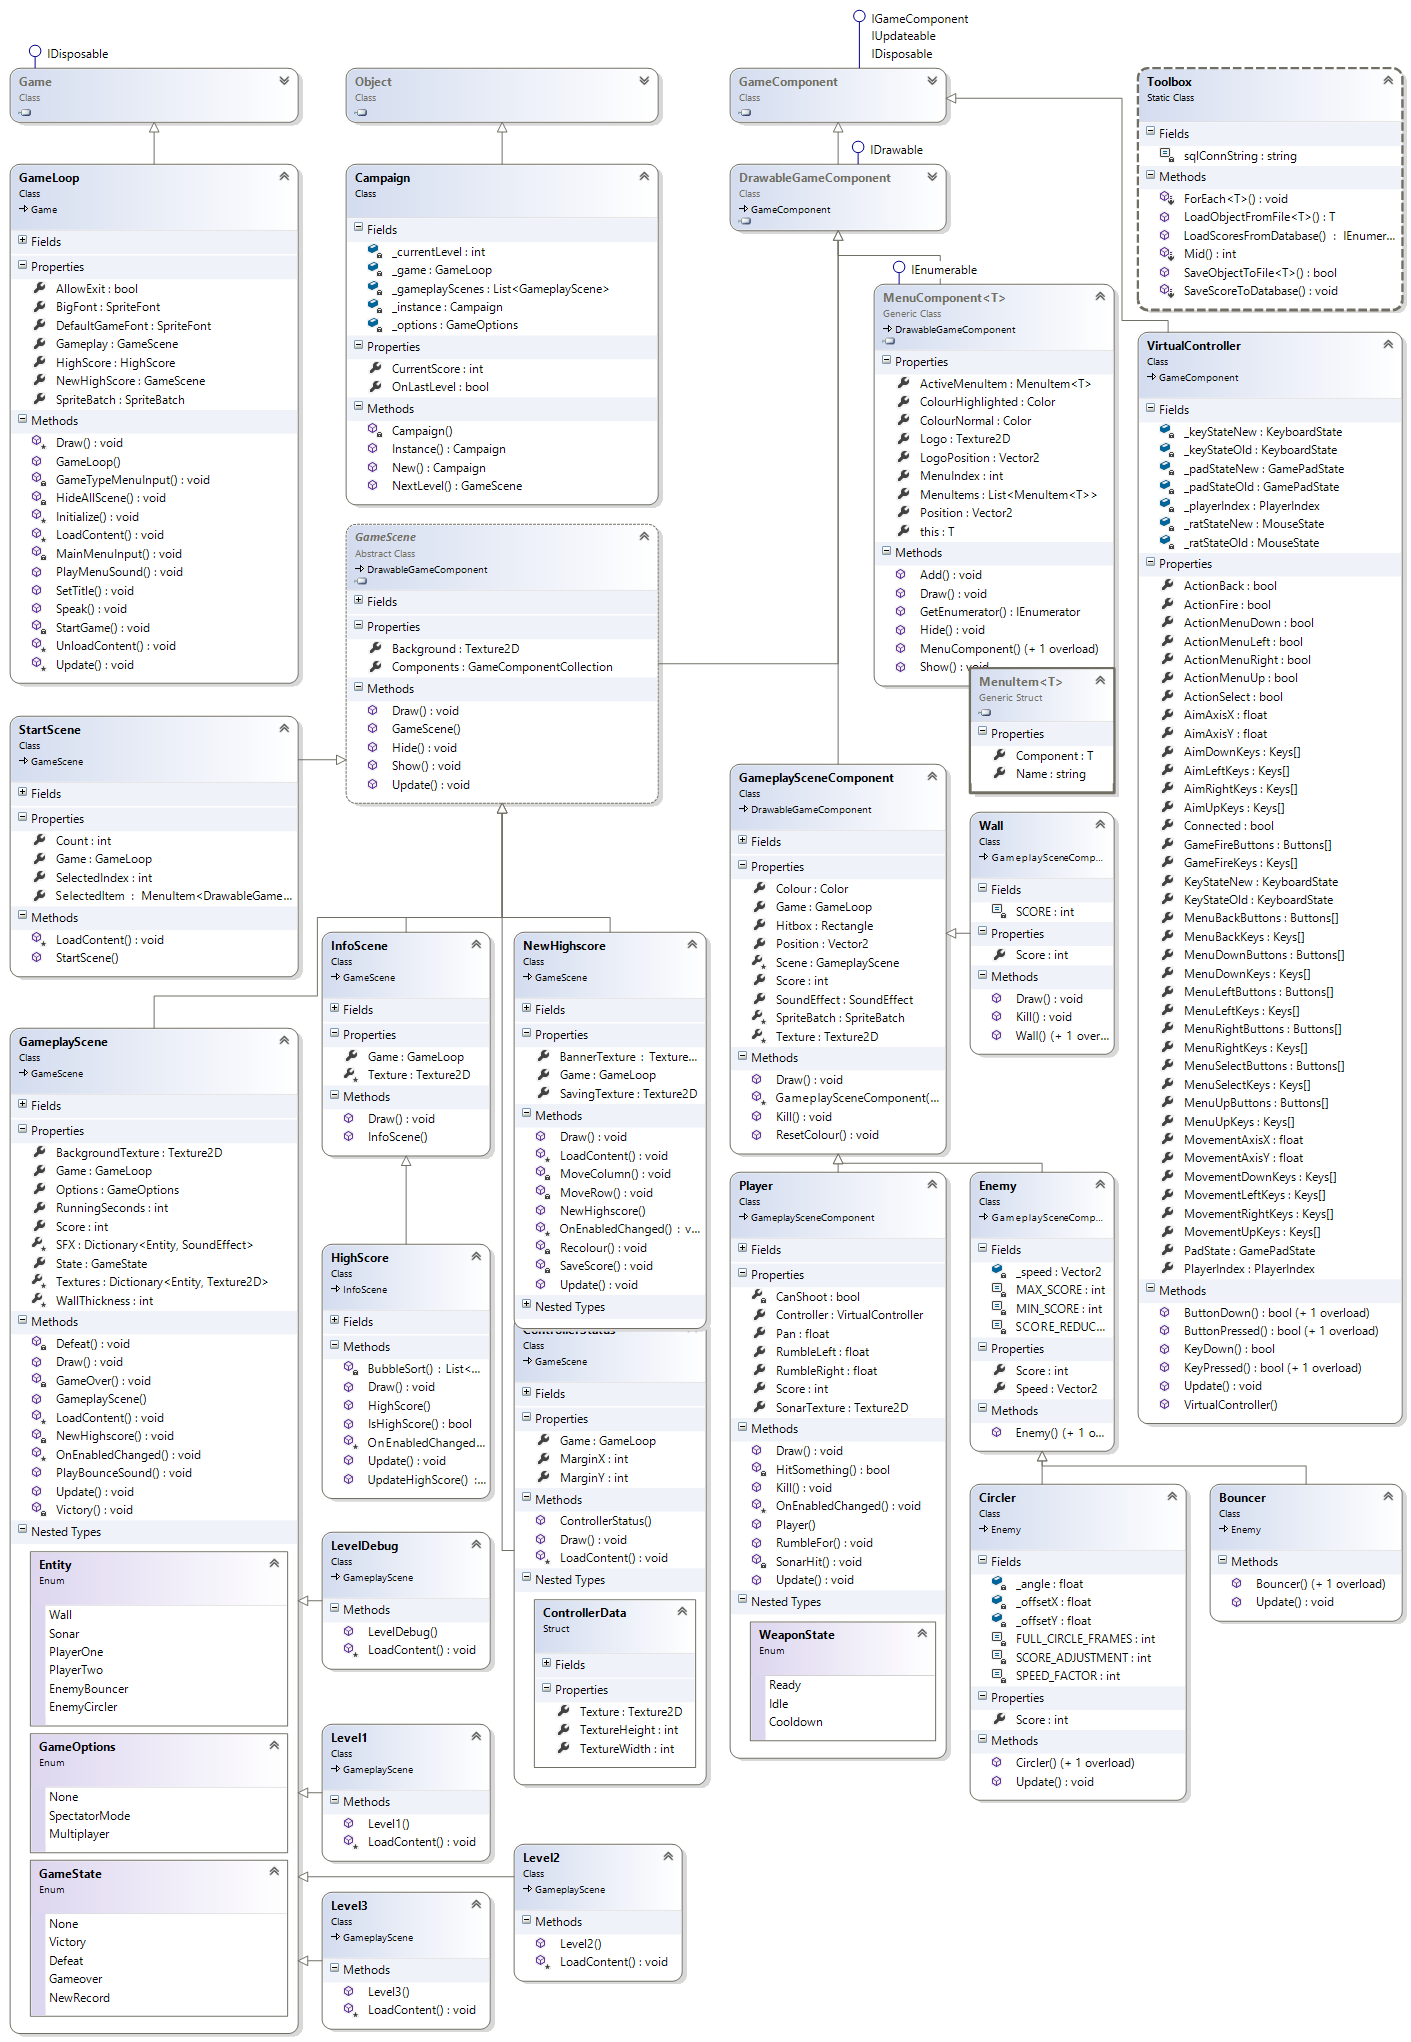
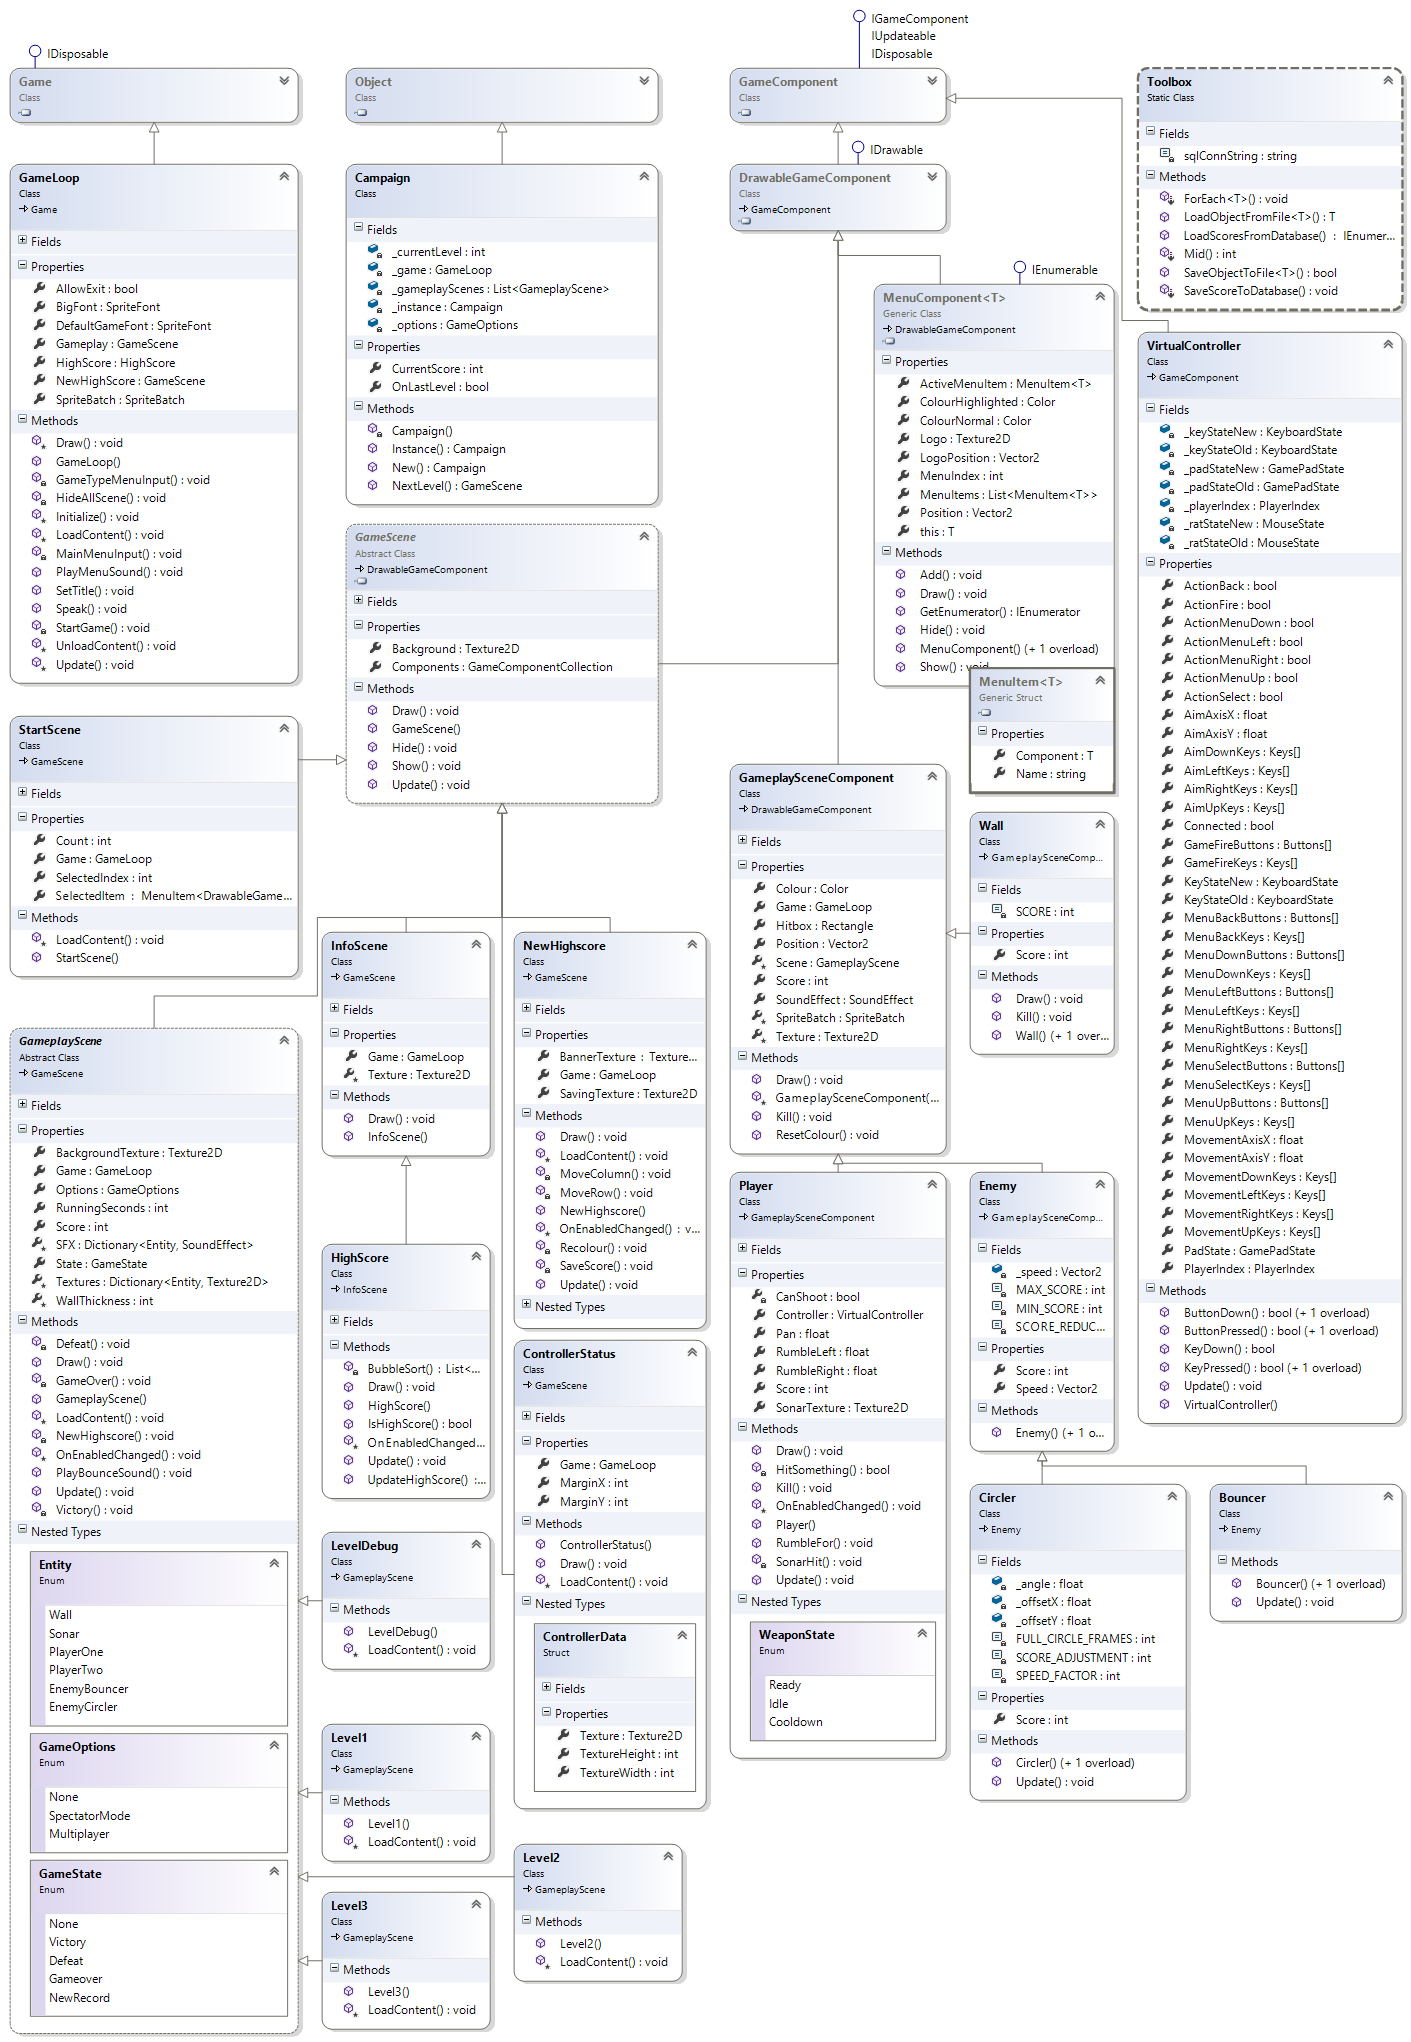
Made gameplayscene abstract. Updated CD

Changed region(s): [[0.343, 0.6479, 0.4989, 0.8947], [0.0, 0.4936, 0.0624, 0.5245]]

diff --git a/SoundScape/SoundScape/GameplayScene.cs b/SoundScape/SoundScape/GameplayScene.cs
@@ -11,7 +11,7 @@ using XNALib.Scenes;
 
 namespace SoundScape
 {
-    public class GameplayScene : GameScene
+    public abstract class GameplayScene : GameScene
     {
         private Dictionary<Entity, SoundEffect> _sfx;
         private Dictionary<Entity, Texture2D> _textures;
